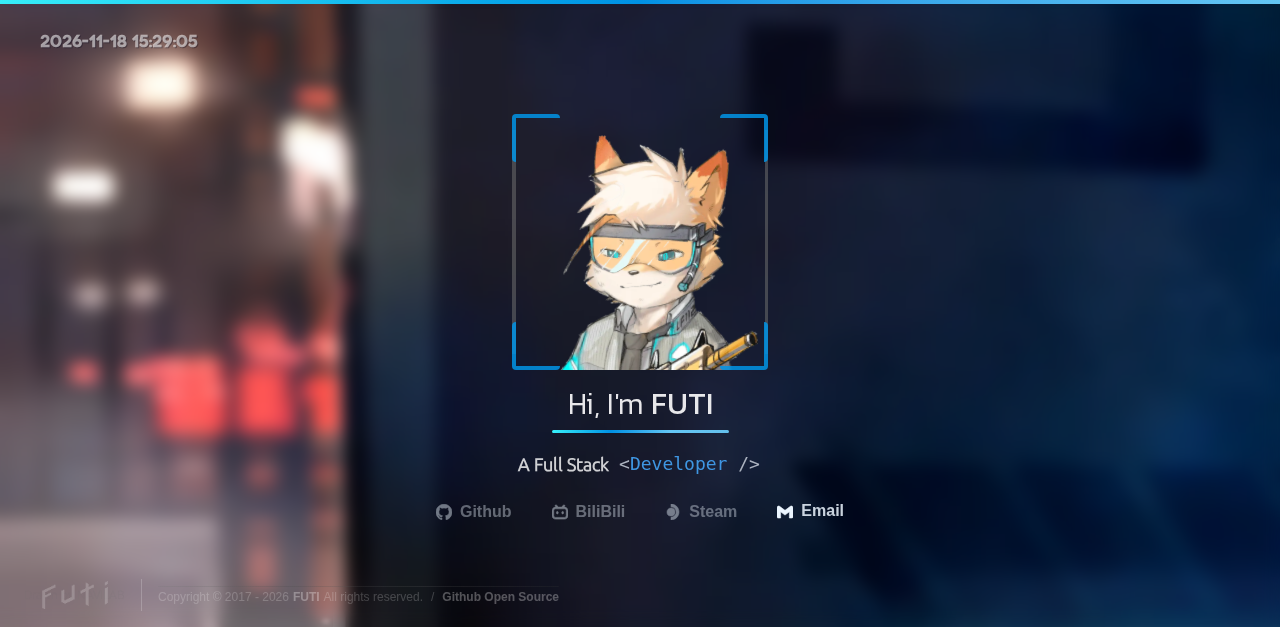
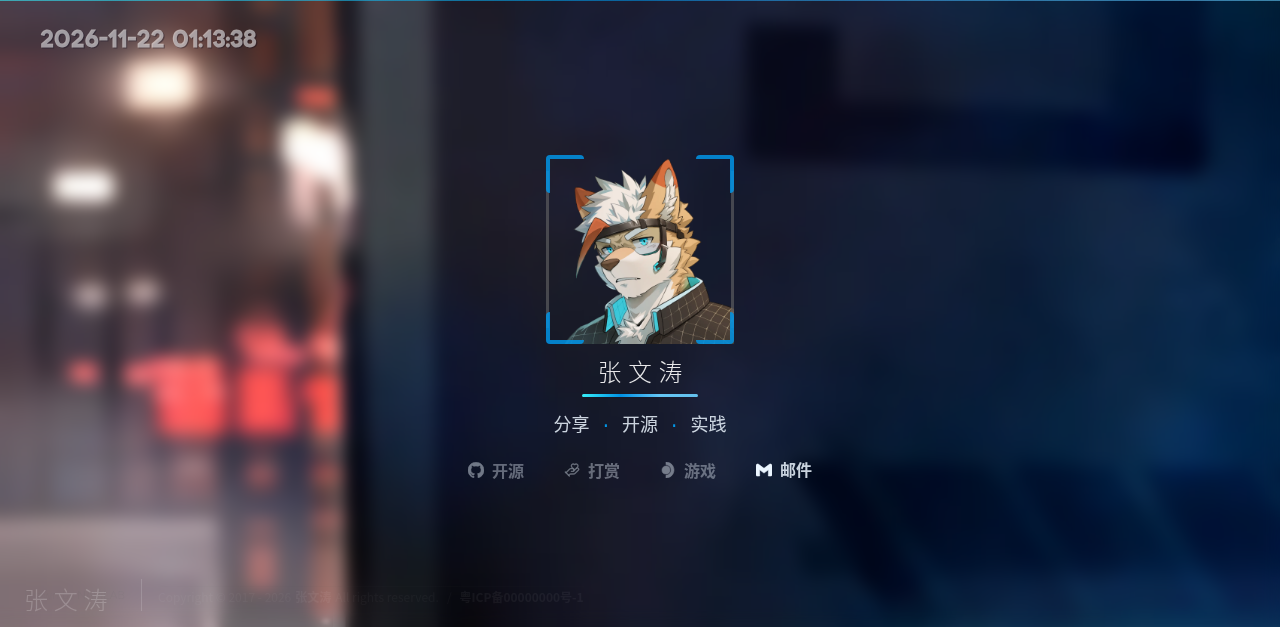
feat: update workspace

diff --git a/src/features/mail/server/mailer.ts b/src/features/mail/server/mailer.ts
@@ -60,7 +60,7 @@ function escapeHtml(value: string): string {
     .replace(/"/g, '&quot;');
 }
 
-const SITE_NAME = 'FUTI · 个人主页';
+const SITE_NAME = '张文涛 · 个人主页';
 const MAIL_LOGO = `${SITE_URL}/icon-192x192.png`;
 const ACCENT = '#3A8CE0';
 const ACCENT_TEXT = '#1D6FC7';
@@ -173,14 +173,14 @@ function buildOwnerHtml(dto: SendMailRequest): string {
     cardBody: safeContent,
     ctaText: '回复留言者',
     ctaHref: `mailto:${safeEmail}?subject=${encodeURIComponent('回复：网站留言')}`,
-    footerNote: '此邮件由 FUTI 个人主页自动发出，直接回复将发送给留言者。',
+    footerNote: '此邮件由张文涛个人主页自动发出，直接回复将发送给留言者。',
   });
 }
 
 function buildConfirmationHtml(dto: SendMailRequest): string {
   const safeContent = escapeHtml(dto.content).replace(/\n/g, '<br />');
   return buildMailShell({
-    preheader: '你的留言已成功送达 FUTI，我会尽快查阅并回复。',
+    preheader: '你的留言已成功送达张文涛，我会尽快查阅并回复。',
     title: '留言已送达',
     subtitle: `感谢你的来信，${escapeHtml(dto.email)}，我会尽快回复。`,
     cardLabel: '你的留言',
@@ -232,7 +232,7 @@ export async function sendContactMail(
         dto.content,
         '',
         '——',
-        'FUTI · 个人主页',
+        SITE_NAME,
         SITE_URL,
       ].join('\n'),
       html: buildOwnerHtml(dto),
@@ -263,7 +263,7 @@ export async function sendContactMail(
         dto.content,
         '',
         '——',
-        'FUTI · 个人主页',
+        SITE_NAME,
         SITE_URL,
       ].join('\n'),
       html: buildConfirmationHtml(dto),

diff --git a/src/lib/seo.ts b/src/lib/seo.ts
@@ -2,8 +2,8 @@ import type { Metadata, Viewport } from 'next';
 
 import { SITE_URL } from '@/lib/site';
 
-export const SITE_NAME = 'FUTI · 个人主页';
-export const SITE_DESCRIPTION = 'FUTI（张文涛）的个人主页，分享全栈开发、开源项目与技术实践。';
+export const SITE_NAME = '张文涛 · 个人主页';
+export const SITE_DESCRIPTION = '张文涛的个人主页，分享全栈开发、开源项目与技术实践。';
 
 const SITE_ICON_PATH = '/favicon.ico';
 const SITE_IMAGE_PATH = '/icon-192x192.png';
@@ -98,7 +98,6 @@ export const structuredData = {
       '@type': 'Person',
       '@id': `${SITE_URL}/#person`,
       name: '张文涛',
-      alternateName: 'FUTI',
       url: SITE_URL,
       image: SITE_IMAGE_URL,
       description: SITE_DESCRIPTION,
@@ -119,15 +118,15 @@ const socialImage = {
 
 export const siteMetadata: Metadata = {
   metadataBase: new URL(SITE_URL),
-  applicationName: 'FUTI',
+  applicationName: '张文涛',
   title: {
     default: SITE_NAME,
-    template: '%s | FUTI',
+    template: '%s | 张文涛',
   },
   description: SITE_DESCRIPTION,
-  authors: [{ name: 'FUTI', url: SITE_URL }],
-  creator: 'FUTI',
-  publisher: 'FUTI',
+  authors: [{ name: '张文涛', url: SITE_URL }],
+  creator: '张文涛',
+  publisher: '张文涛',
   alternates: {
     canonical: '/',
   },
@@ -164,7 +163,7 @@ export const siteMetadata: Metadata = {
   },
   appleWebApp: {
     capable: true,
-    title: 'FUTI',
+    title: '张文涛',
     statusBarStyle: 'black-translucent',
     startupImage: APPLE_SPLASH_SCREENS.map(({ width, height, ratio, ...screen }) => ({
       url: `/launch/splash-${width * ratio}x${height * ratio}.png`,

diff --git a/src/features/home/components/footer.tsx b/src/features/home/components/footer.tsx
@@ -7,7 +7,6 @@ import { Tooltip, TooltipContent, TooltipTrigger } from '@/components/ui/tooltip
 
 import { BasicsProps } from '@/components/type';
 
-import { FutiIcon } from '@/assets/svg/futi.tsx';
 import { cn } from '@/lib/utils.ts';
 import { ICP_LINK, ICP_NUMBER } from '@/lib/site';
 import Link from 'next/link';
@@ -26,8 +25,10 @@ export const Footer: React.FC<IFooterProps> = ({ className, style }) => {
             animate={{ opacity: 1, transition: { delay: 1 } }}
             transition={{ duration: 0.2 }}
           >
-            Drawn by NAVILAB
-            <FutiIcon className="absolute h-7 [&>path]:fill-white/20" />
+            <span className="max-sm:hidden">Drawn by NAVILAB</span>
+            <span className="font-kanit absolute top-0 left-0 text-[1.5rem] leading-7 font-light tracking-[0.24em] text-white/20 select-none max-sm:static max-sm:block max-sm:text-center">
+              张文涛
+            </span>
           </m.a>
         </TooltipTrigger>
         <TooltipContent sideOffset={16}>Drawn by Navigator Kepler</TooltipContent>
@@ -44,7 +45,7 @@ export const Footer: React.FC<IFooterProps> = ({ className, style }) => {
             <Tooltip>
               <TooltipTrigger asChild>
                 <Link href="/" className="mx-1">
-                  FUTI
+                  张文涛
                 </Link>
               </TooltipTrigger>
               <TooltipContent sideOffset={16}>🙃 Independent Websites Developer</TooltipContent>

diff --git a/src/features/profile/components/name.tsx b/src/features/profile/components/name.tsx
@@ -14,7 +14,7 @@ type INameProps = BasicsProps & MotionProps;
 export const Name: React.FC<INameProps> = ({ className, style, ...rest }) => (
   <m.div className={cn('flex h-[clamp(2.75rem,7vh,3rem)] flex-col justify-center gap-2', className)} style={style} {...rest}>
     <h1 className="profile-title font-kanit !m-0 my-0 px-4 font-light text-white/90">
-      <span className="inline-block -mr-[0.3em] tracking-[0.3em]">FUTI</span>
+      <span className="inline-block -mr-[0.3em] tracking-[0.3em]">张文涛</span>
     </h1>
     <Separator className="futi-profile-line !h-[3px] w-full rounded shadow" />
   </m.div>

diff --git a/public/offline.html b/public/offline.html
@@ -8,7 +8,7 @@
     <meta name="color-scheme" content="dark" />
     <meta name="apple-mobile-web-app-capable" content="yes" />
     <meta name="apple-mobile-web-app-status-bar-style" content="black" />
-    <title>暂时离线 · FUTI</title>
+    <title>暂时离线 · 张文涛</title>
     <style>
       :root {
         color-scheme: dark;
@@ -37,7 +37,7 @@
   <body>
     <main>
       <h1>当前处于离线状态</h1>
-      <p>网络恢复后即可继续访问 FUTI 个人主页。</p>
+      <p>网络恢复后即可继续访问张文涛个人主页。</p>
     </main>
   </body>
 </html>

diff --git a/src/features/home/components/home.tsx b/src/features/home/components/home.tsx
@@ -118,7 +118,7 @@ const Home: React.FC = () => {
                   <m.div key="futi-profile-image" className="absolute top-0 left-0" initial={{ opacity: 0 }} animate={{ opacity: 1 }} exit={{ opacity: 0 }} transition={{ duration: 0.2 }}>
                     <Image
                       src={profileImage}
-                      alt="FUTI 个人头像"
+                      alt="张文涛的个人头像"
                       className="size-full bg-none"
                       sizes="(max-width: 640px) 48vw, 240px"
                       quality={80}

diff --git a/src/components/site-preloader.tsx b/src/components/site-preloader.tsx
@@ -98,8 +98,8 @@ export const SitePreloader = () => {
             className="stroke-futi"
           />
         </svg>
-        <span className="font-geometos text-[10px] tracking-[0.42em] text-white/25 select-none">
-          FUTI
+        <span className="font-geometos -mr-[0.3em] text-[11px] tracking-[0.3em] text-white/25 select-none">
+          张文涛
         </span>
         <span className="sr-only">正在加载</span>
       </div>

diff --git a/src/features/webmcp/use-webmcp-tools.ts b/src/features/webmcp/use-webmcp-tools.ts
@@ -95,7 +95,7 @@ export function useWebMcpTools(onOpenContactForm: () => void) {
               {
                 type: 'text',
                 text: JSON.stringify({
-                  name: 'FUTI',
+                  name: '张文涛',
                   fullName: '张文涛',
                   role: 'Full Stack Developer',
                   site: SITE_URL,
